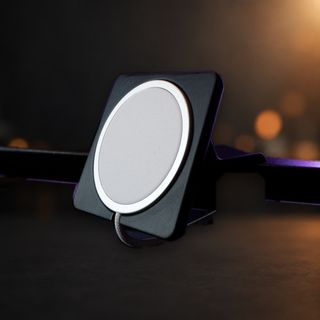
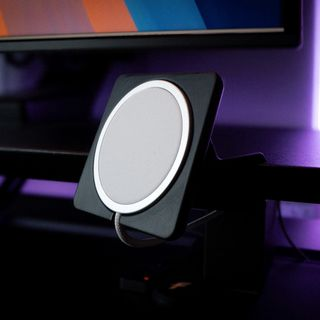
Magnus: revert v6 background swap, restore v4 desk photos, keep hero overflow fix, assets ?v=7

diff --git a/public/magnus/index.html b/public/magnus/index.html
@@ -18,7 +18,7 @@
 <meta property="og:image:width" content="1200">
 <meta property="og:image:height" content="630">
 <meta name="twitter:card" content="summary_large_image">
-<link rel="stylesheet" href="/magnus/assets/css/style.css?v=6">
+<link rel="stylesheet" href="/magnus/assets/css/style.css?v=7">
 </head>
 <body>
 <a class="skip" href="#main">Skip to content</a>
@@ -88,23 +88,23 @@
   <section class="inuse" id="in-use" aria-labelledby="inuse-title">
     <div class="inuse-inner">
     <h2 id="inuse-title" class="reveal">On the desk</h2>
-    <p class="inuse-lede reveal">Real photos of Magnus in use, set against a studio backdrop.</p>
+    <p class="inuse-lede reveal">Real photos of Magnus in use, straight from the Etsy listing.</p>
     <div class="inuse-grid" tabindex="0" role="region" aria-label="Real photos of Magnus, scroll sideways on small screens">
       <picture>
-        <source type="image/webp" srcset="/magnus/assets/img/magnus-inuse-mount-puck-320.webp 320w, /magnus/assets/img/magnus-inuse-mount-puck-480.webp 480w, /magnus/assets/img/magnus-inuse-mount-puck-720.webp 720w" sizes="(min-width: 900px) 225px, 60vw">
-        <img src="/magnus/assets/img/magnus-inuse-mount-puck-480.jpg" srcset="/magnus/assets/img/magnus-inuse-mount-puck-320.jpg 320w, /magnus/assets/img/magnus-inuse-mount-puck-480.jpg 480w, /magnus/assets/img/magnus-inuse-mount-puck-720.jpg 720w" sizes="(min-width: 900px) 225px, 60vw" width="720" height="720" loading="lazy" decoding="async" alt="The Magnus mount holding a white Apple MagSafe charger, attached to a desk riser under a monitor.">
+        <source type="image/webp" srcset="/magnus/assets/img/magnus-inuse-mount-puck-320.webp?v=7 320w, /magnus/assets/img/magnus-inuse-mount-puck-480.webp?v=7 480w, /magnus/assets/img/magnus-inuse-mount-puck-720.webp?v=7 720w" sizes="(min-width: 900px) 225px, 60vw">
+        <img src="/magnus/assets/img/magnus-inuse-mount-puck-480.jpg?v=7" srcset="/magnus/assets/img/magnus-inuse-mount-puck-320.jpg?v=7 320w, /magnus/assets/img/magnus-inuse-mount-puck-480.jpg?v=7 480w, /magnus/assets/img/magnus-inuse-mount-puck-720.jpg?v=7 720w" sizes="(min-width: 900px) 225px, 60vw" width="720" height="720" loading="lazy" decoding="async" alt="The Magnus mount holding a white Apple MagSafe charger, attached to a desk riser under a monitor.">
       </picture>
       <picture>
-        <source type="image/webp" srcset="/magnus/assets/img/magnus-inuse-phone-angle-320.webp 320w, /magnus/assets/img/magnus-inuse-phone-angle-480.webp 480w, /magnus/assets/img/magnus-inuse-phone-angle-720.webp 720w" sizes="(min-width: 900px) 225px, 60vw">
-        <img src="/magnus/assets/img/magnus-inuse-phone-angle-480.jpg" srcset="/magnus/assets/img/magnus-inuse-phone-angle-320.jpg 320w, /magnus/assets/img/magnus-inuse-phone-angle-480.jpg 480w, /magnus/assets/img/magnus-inuse-phone-angle-720.jpg 720w" sizes="(min-width: 900px) 225px, 60vw" width="720" height="720" loading="lazy" decoding="async" alt="An iPhone held upright on the Magnus mount beside a monitor, its lock screen showing the time.">
+        <source type="image/webp" srcset="/magnus/assets/img/magnus-inuse-phone-angle-320.webp?v=7 320w, /magnus/assets/img/magnus-inuse-phone-angle-480.webp?v=7 480w, /magnus/assets/img/magnus-inuse-phone-angle-720.webp?v=7 720w" sizes="(min-width: 900px) 225px, 60vw">
+        <img src="/magnus/assets/img/magnus-inuse-phone-angle-480.jpg?v=7" srcset="/magnus/assets/img/magnus-inuse-phone-angle-320.jpg?v=7 320w, /magnus/assets/img/magnus-inuse-phone-angle-480.jpg?v=7 480w, /magnus/assets/img/magnus-inuse-phone-angle-720.jpg?v=7 720w" sizes="(min-width: 900px) 225px, 60vw" width="720" height="720" loading="lazy" decoding="async" alt="An iPhone held upright on the Magnus mount beside a monitor, its lock screen showing the time.">
       </picture>
       <picture>
-        <source type="image/webp" srcset="/magnus/assets/img/magnus-inuse-phone-case-320.webp 320w, /magnus/assets/img/magnus-inuse-phone-case-480.webp 480w, /magnus/assets/img/magnus-inuse-phone-case-720.webp 720w" sizes="(min-width: 900px) 225px, 60vw">
-        <img src="/magnus/assets/img/magnus-inuse-phone-case-480.jpg" srcset="/magnus/assets/img/magnus-inuse-phone-case-320.jpg 320w, /magnus/assets/img/magnus-inuse-phone-case-480.jpg 480w, /magnus/assets/img/magnus-inuse-phone-case-720.jpg 720w" sizes="(min-width: 900px) 225px, 60vw" width="720" height="720" loading="lazy" decoding="async" alt="Rear view of an iPhone in a dark patterned case resting on the Magnus mount at the edge of a desk.">
+        <source type="image/webp" srcset="/magnus/assets/img/magnus-inuse-phone-case-320.webp?v=7 320w, /magnus/assets/img/magnus-inuse-phone-case-480.webp?v=7 480w, /magnus/assets/img/magnus-inuse-phone-case-720.webp?v=7 720w" sizes="(min-width: 900px) 225px, 60vw">
+        <img src="/magnus/assets/img/magnus-inuse-phone-case-480.jpg?v=7" srcset="/magnus/assets/img/magnus-inuse-phone-case-320.jpg?v=7 320w, /magnus/assets/img/magnus-inuse-phone-case-480.jpg?v=7 480w, /magnus/assets/img/magnus-inuse-phone-case-720.jpg?v=7 720w" sizes="(min-width: 900px) 225px, 60vw" width="720" height="720" loading="lazy" decoding="async" alt="Rear view of an iPhone in a dark patterned case resting on the Magnus mount at the edge of a desk.">
       </picture>
       <picture>
-        <source type="image/webp" srcset="/magnus/assets/img/magnus-inuse-mount-detail-320.webp 320w, /magnus/assets/img/magnus-inuse-mount-detail-480.webp 480w, /magnus/assets/img/magnus-inuse-mount-detail-720.webp 720w" sizes="(min-width: 900px) 225px, 60vw">
-        <img src="/magnus/assets/img/magnus-inuse-mount-detail-480.jpg" srcset="/magnus/assets/img/magnus-inuse-mount-detail-320.jpg 320w, /magnus/assets/img/magnus-inuse-mount-detail-480.jpg 480w, /magnus/assets/img/magnus-inuse-mount-detail-720.jpg 720w" sizes="(min-width: 900px) 225px, 60vw" width="720" height="720" loading="lazy" decoding="async" alt="Close up of the Magnus mount, showing its folded black body, magnet plate and the white charging cable.">
+        <source type="image/webp" srcset="/magnus/assets/img/magnus-inuse-mount-detail-320.webp?v=7 320w, /magnus/assets/img/magnus-inuse-mount-detail-480.webp?v=7 480w, /magnus/assets/img/magnus-inuse-mount-detail-720.webp?v=7 720w" sizes="(min-width: 900px) 225px, 60vw">
+        <img src="/magnus/assets/img/magnus-inuse-mount-detail-480.jpg?v=7" srcset="/magnus/assets/img/magnus-inuse-mount-detail-320.jpg?v=7 320w, /magnus/assets/img/magnus-inuse-mount-detail-480.jpg?v=7 480w, /magnus/assets/img/magnus-inuse-mount-detail-720.jpg?v=7 720w" sizes="(min-width: 900px) 225px, 60vw" width="720" height="720" loading="lazy" decoding="async" alt="Close up of the Magnus mount, showing its folded black body, magnet plate and the white charging cable.">
       </picture>
     </div>
     </div>
@@ -160,7 +160,7 @@
   <span class="buybar-name">Magnus <span class="buybar-price">From $80</span></span>
   <a class="btn btn-sm" href="https://www.etsy.com/listing/1860895444/magnus-magsafe-phone-mount-designed-for" tabindex="-1">Buy on Etsy</a>
 </div>
-<script src="/magnus/assets/js/reveal.js?v=6" defer></script>
-<script src="/magnus/assets/js/premium.js?v=6" defer></script>
+<script src="/magnus/assets/js/reveal.js?v=7" defer></script>
+<script src="/magnus/assets/js/premium.js?v=7" defer></script>
 </body>
 </html>
